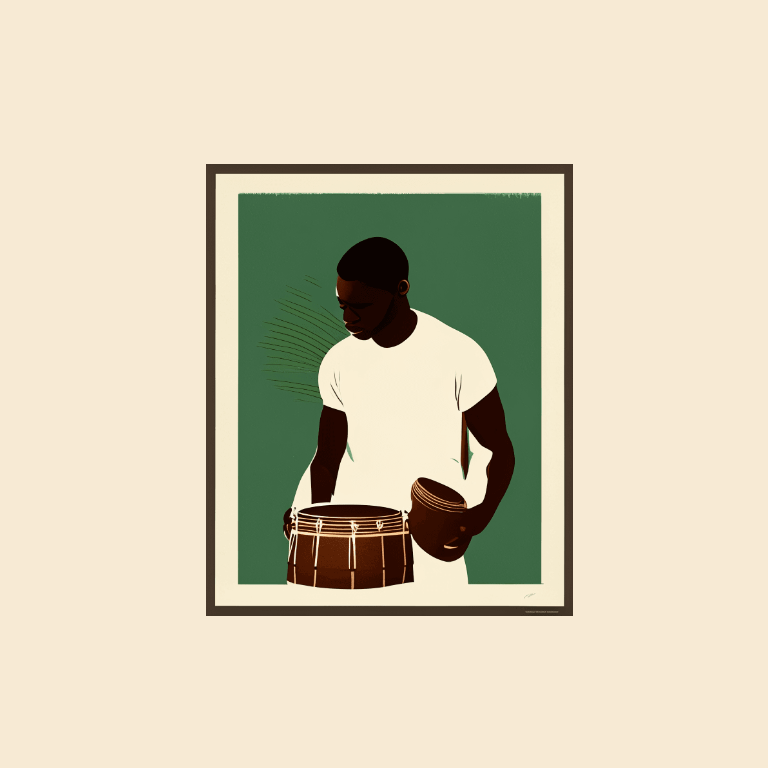
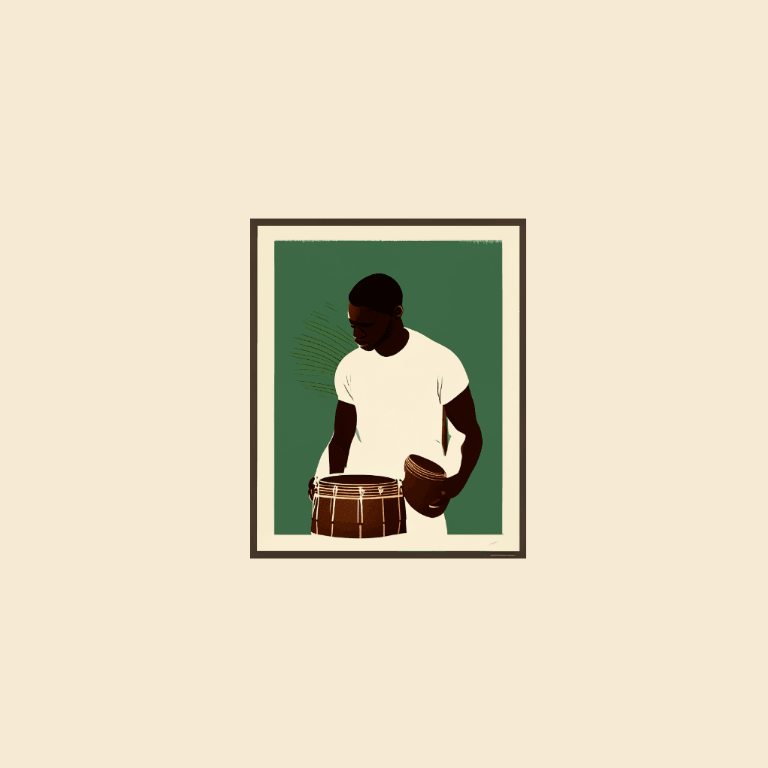
changed the ratios of Moaaz's Project Poster changed the color's of View The Website.

Changed region(s): [[0.25, 0.1875, 0.75, 0.8125]]

diff --git a/src/pages/portfolio/projectDetails/ProjectDetails.scss b/src/pages/portfolio/projectDetails/ProjectDetails.scss
@@ -234,9 +234,9 @@ $font-family_1: "Posterama", sans-serif;
 		display: flex;
 		flex-direction: row;
 		align-items: center;
-		color: $color_5;
+		color: $color_4;
 		position: relative;
-		font-size: 1.1rem;
+		font-size: 1.2rem;
 
 		&::after {
 			content: "";
@@ -260,6 +260,9 @@ $font-family_1: "Posterama", sans-serif;
 	.project__links {
 		display: flex;
 		justify-content: space-between;
+		a {
+			color: var(--title-color)
+		}
 	}
 }
 
